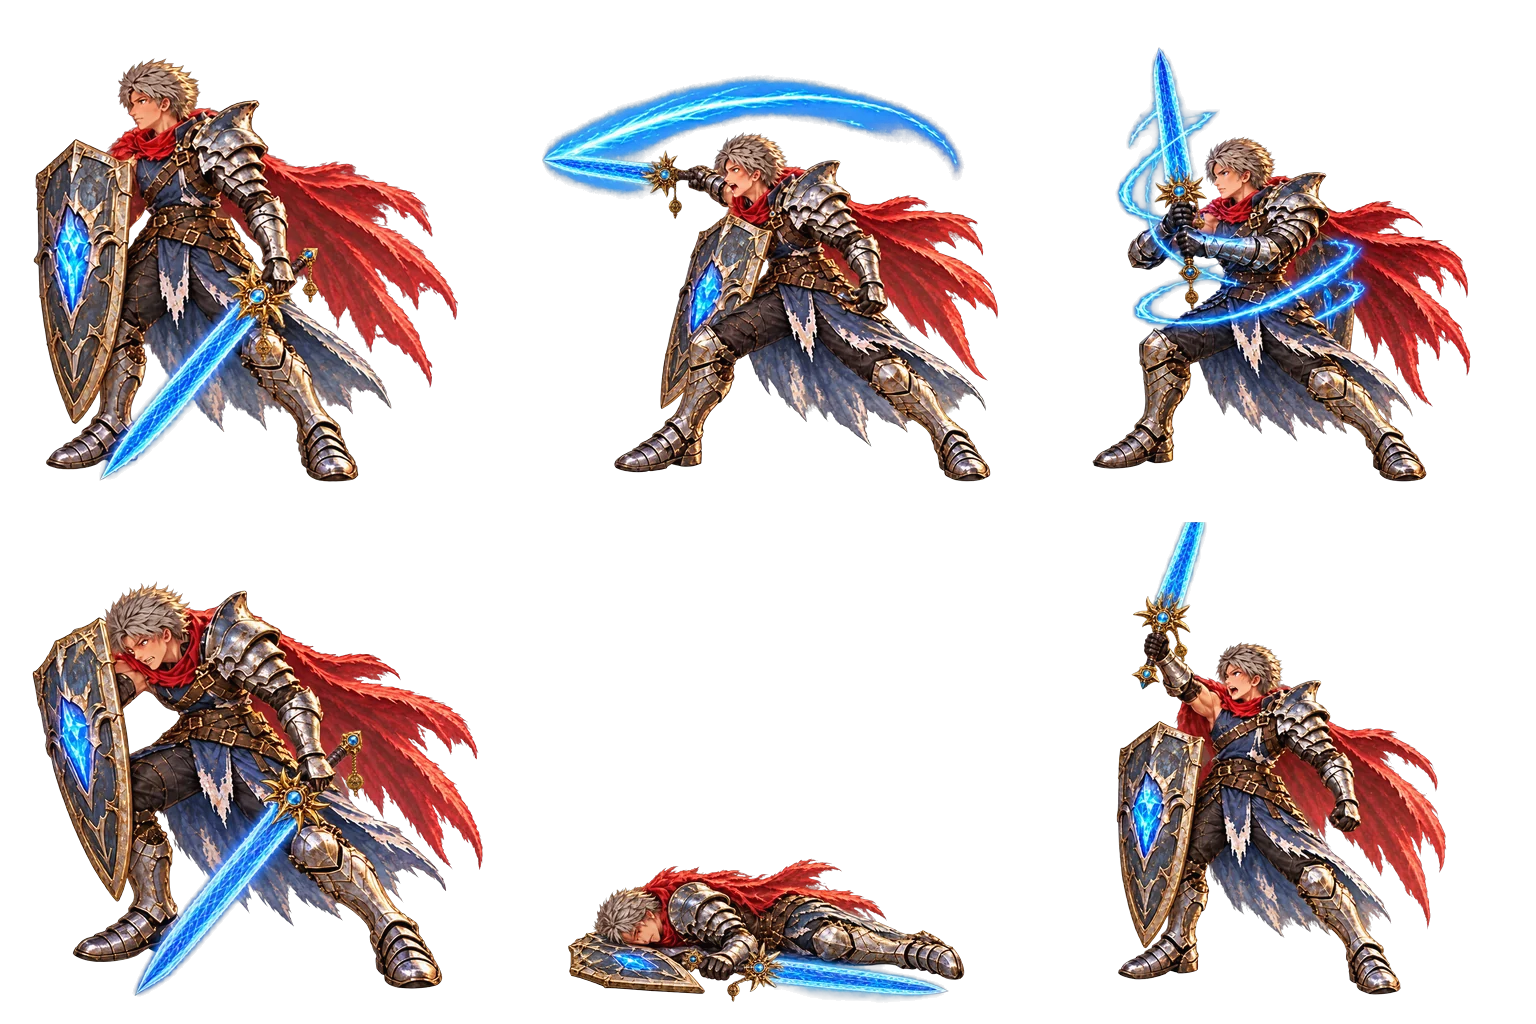
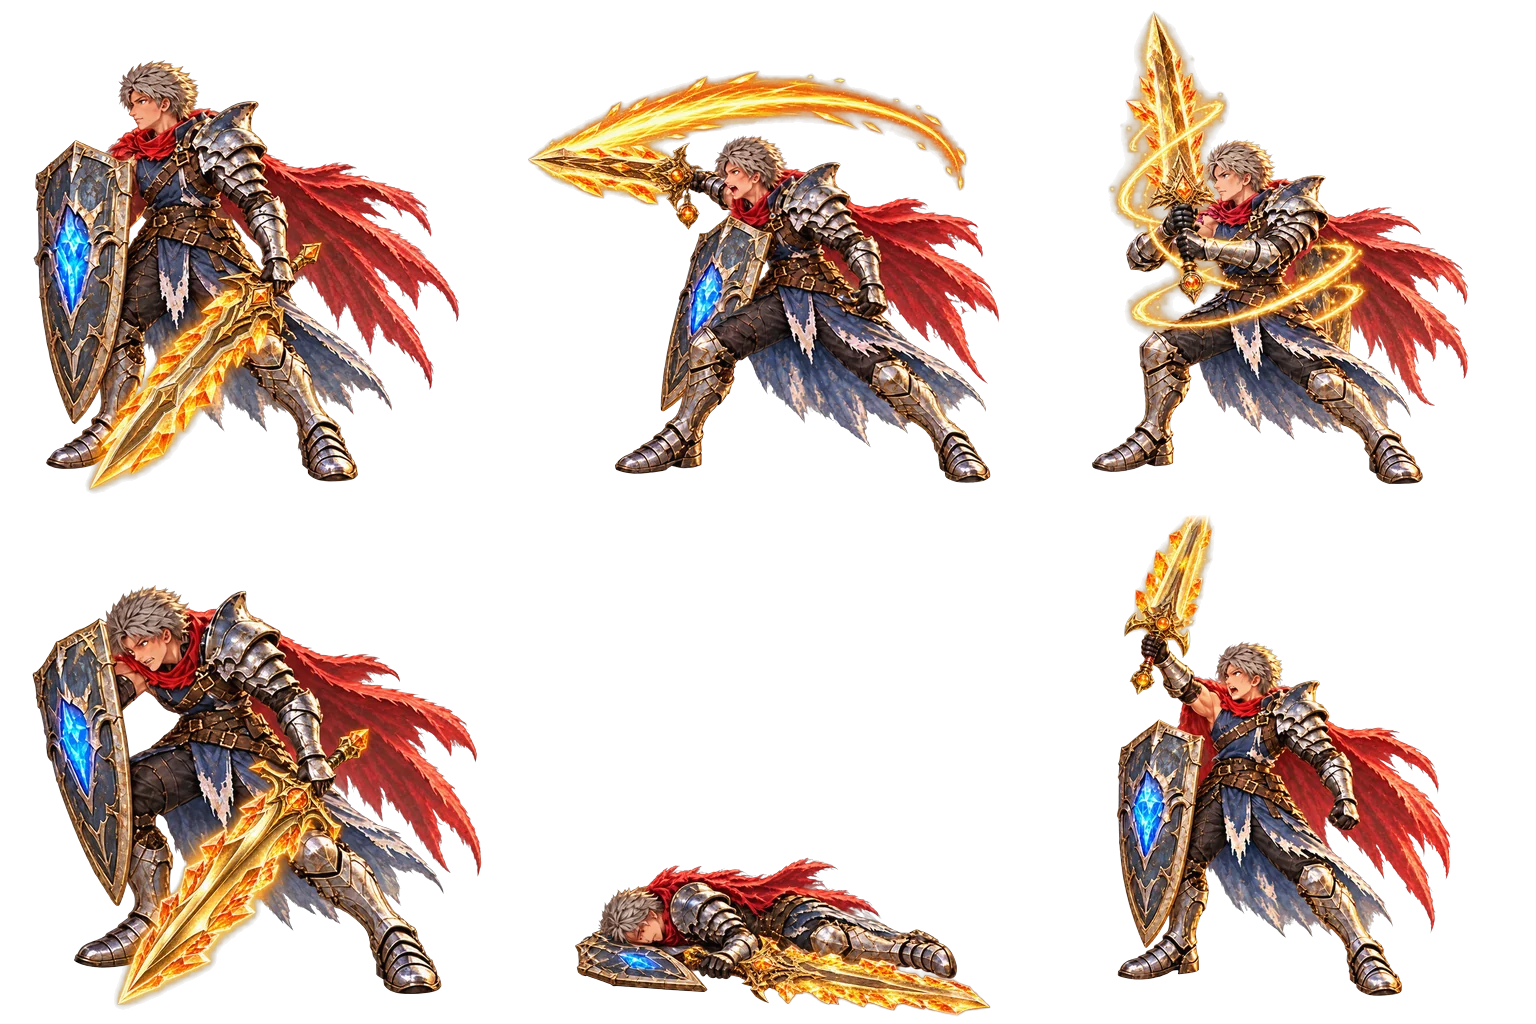
Art wave 12 Section C: Cade's forged sheets read at a glance
battle_1: a broad gold longsword with amber crystal shards and a warm glow, about
1.3x the old blade. battle_2: a huge teal-and-white sharkfin greatsword crackling
with white lightning, red streamer, about 1.6x. Painted with Codex one cell at a
time from battle.webp and fitted back onto the old cells; checked with red/cyan
overlays (tools/art/wave12-overlay.py). The 128 px idle strip is in
art/review/wave-12/knight_idle_strip.png.

The fit no longer snaps feet for these sheets: a big blade glowing below the
boots was read as feet and pulled the hero up. A raised blade that reaches the
cell edge now fades out over 12 px instead of being cut.

diff --git a/tools/art/wave12-c.py b/tools/art/wave12-c.py
@@ -1,0 +1,156 @@
+"""Wave 12 Section C: forged weapons that read at a glance.
+
+python tools/art/wave12-c.py gen <hero> <step> <cell> [attempt]
+python tools/art/wave12-c.py fit <hero> <step> <cell> <attempt>
+python tools/art/wave12-c.py assemble <hero> <step>
+python tools/art/wave12-c.py strip <hero>        128 px idle strip: as found, step 1, step 2
+
+Each cell is an edit of battle.webp (the weapon as found), one look per step:
+step 1 bright gold, about 1.3x; step 2 the hero's signature color, about 1.6x,
+strong glow and sparkles. Raw work goes to art/raw/wave-12/<hero>_c<step>/c<cell>/.
+The sheet replaces Section A's battle_<step>.webp; the manifest entry stays.
+"""
+import os
+import shutil
+import subprocess
+import sys
+from pathlib import Path
+
+from PIL import Image
+
+sys.path.insert(0, str(Path(__file__).parent))
+gen = __import__("wave12-gen")
+fit = __import__("wave12-fit")
+bare = __import__("wave12-bare")
+
+ROOT = Path(__file__).resolve().parents[2]
+A = ROOT / "public/assets"
+RAW = ROOT / "art/raw/wave-12"
+
+STEP = {
+    1: ("noticeably bigger, about 1.3 times the size of the weapon it replaces, with a clearly different shape",
+        "Bright gold metal with amber/orange crystal or flame accents, and a steady warm gold glow around the weapon."),
+    2: ("noticeably bigger, about 1.6 times the size of the weapon it replaces, the boldest shape",
+        "The hero's signature color, saturated, with white-hot edges; a strong glow plus a few sparkles or motes floating off it."),
+}
+SHAPE = {
+    ("knight", 1): "the Shard Sword: a broad gold longsword with amber crystal shards along the edge (no longer a thin blue blade)",
+    ("knight", 2): "the Sharkfin Blade: a huge curved teal-and-white sharkfin greatsword crackling with white lightning, with a red streamer",
+    ("gunner", 1): "the Brass-Fin Blasters: gold blasters with flared fins and glowing amber barrels (one in each hand)",
+    ("gunner", 2): "the Storm Blasters: long double-barreled blasters in electric blue with crackling white muzzles (one in each hand)",
+    ("spellwright", 1): "the Gold-Clasp Spellbook: a bigger gold-armored book, open, with a glowing amber sigil floating above it",
+    ("spellwright", 2): "the Book of Flying Pages: a large book in violet-and-white light, its glowing pages flying around him in a ring",
+    ("titancaller", 1): "the Coral Crown Staff: a gold staff topped with a big red-orange coral crown",
+    ("titancaller", 2): "the Living Tide Staff: a tall staff topped with a huge swirling sea-blue water orb, white foam spiralling around it",
+    ("beastkeeper", 1): "the Amber Crook: a gold shepherd's crook with a big glowing amber lantern hanging from the hook",
+    ("beastkeeper", 2): "the Greenwood Crook: a tall leafy shepherd's crook in bright green, with white flowers and a teal sea-dragon head at the hook",
+}
+EFFECT = {
+    "knight": "His slash arc or magic swirl, where there is one, keeps its shape and takes the new weapon's color.",
+    "gunner": "Muzzle flashes and swirls keep their shape and take the new blasters' color.",
+    "spellwright": "Any glow or orbiting runes around the book keep their shape and take the new book's color. His wand-torch stays exactly as it is.",
+    "titancaller": "Any water ribbons or glow coming off the staff keep their shape and take the new staff's colors.",
+    "beastkeeper": "Any lantern swirl or glow coming off the crook keeps its shape and takes the new crook's colors.",
+}
+
+
+def lead(step):
+    return gen.LEAD.replace("about the same size against the hero as the weapon it replaces", STEP[step][0])
+
+
+def raw(hero, step, c):
+    return RAW / f"{hero}_c{step}/c{c}"
+
+
+def do_gen(hero, step, c, attempt):
+    d = A / f"characters/ally_{hero}"
+    out = raw(hero, step, c) / f"a{attempt}"
+    if out.exists():
+        shutil.rmtree(out)
+    out.mkdir(parents=True)
+    old = Image.open(d / "battle.webp").convert("RGBA").crop(fit.cell_box("battle", c))
+    if os.environ.get("EDIT_FROM"):
+        # Start from another finished cell of the same frame (e.g. step 1's), when edits of the old cell keep moving the hero.
+        old = Image.open(os.environ["EDIT_FROM"]).convert("RGBA")
+    bare.to_square(old).save(out / "cell.png")
+    Image.open(d / "base.webp").save(out / "hero.png")
+    refs = ["cell.png", "hero.png"]
+    extra = ""
+    s1 = raw(hero, 1, c) / "final.png"
+    if step == 2 and s1.exists():
+        bare.to_square(Image.open(s1).convert("RGBA")).save(out / "step1.png")
+        refs.append("step1.png")
+        extra = ("Image 3 is the same frame with the previous, gold upgrade: use it only for where the hand grips the "
+                 "weapon. The new weapon is a different color and bigger than that one.\n\n")
+    note = os.environ.get("NOTE", "")
+    note = note + "\n\n" if note else ""
+    brief = f"""Generate 1 image with your image generation tool (edit mode, using the attached images as references) and save it as a PNG named `out.png` in the current folder. Actually generate and save the image; don't just describe it.
+
+{lead(step)}
+
+{STEP[step][1]}
+
+Image 1 (`cell.png`) is the picture to edit: one battle animation frame of a game sprite, 1024x1024 on a transparent background. Edit THIS picture. Keep the canvas 1024x1024 and keep the hero at exactly the same position, size and pose in the canvas, feet at the same height, so the edited frame lines up with the others. The bigger weapon must still fit entirely inside the canvas with a clear margin; nothing touches the edges.
+
+The weapon to remove is {gen.OLD_WEAPON[hero]}. Replace it with {SHAPE[(hero, step)]}. It must look obviously different from the old weapon at a glance, even when the sprite is tiny. Image 2 (`hero.png`) is the hero's character reference, so the hero stays on-model (ignore the weapon in it). {EFFECT[hero]}
+
+{extra}{note}{gen.SPRITE}
+
+{gen.RULES}
+
+Output: 1024x1024 PNG with a transparent background (alpha), no ground, no shadow. When done, reply with the filename you saved and one line describing it.
+"""
+    (out / "brief.md").write_text(brief, encoding="utf-8")
+    cmd = [gen.codex_exe(), "exec", "--skip-git-repo-check", "-s", "workspace-write", "-C", str(out), "-o", str(out / "reply.txt")]
+    for r in refs:
+        cmd += ["-i", str(out / r)]
+    cmd.append("-")
+    with open(out / "log.txt", "w", encoding="utf-8") as log:
+        r = subprocess.run(cmd, input=brief, text=True, encoding="utf-8", stdout=log, stderr=subprocess.STDOUT, timeout=1500)
+    print(out, "exit", r.returncode, "->", [p.name for p in out.glob("*.png") if p.name not in refs])
+
+
+def do_fit(hero, step, c, att):
+    old = Image.open(A / f"characters/ally_{hero}/battle.webp").convert("RGBA").crop(fit.cell_box("battle", c))
+    fit.fit_cell(old, raw(hero, step, c), att, ko=c == 4)
+
+
+def do_assemble(hero, step):
+    d = A / f"characters/ally_{hero}"
+    src = Image.open(d / "battle.webp").convert("RGBA")
+    out = Image.new("RGBA", src.size, (0, 0, 0, 0))
+    for c in range(6):
+        f = raw(hero, step, c) / "final.png"
+        if not f.exists():
+            sys.exit(f"missing {f}")
+        out.paste(Image.open(f).convert("RGBA"), fit.cell_box("battle", c)[:2])
+    rel = d / f"battle_{step}.webp"
+    out.save(rel, "WEBP", quality=86, method=6)
+    print(rel.name, rel.stat().st_size // 1024, "KB")
+
+
+def do_strip(hero):
+    d = A / f"characters/ally_{hero}"
+    cells = []
+    for name in ("battle.webp", "battle_1.webp", "battle_2.webp"):
+        cell = Image.open(d / name).convert("RGBA").crop((0, 0, 512, 512))
+        cells.append(cell.resize((128, 128), Image.LANCZOS))
+    strip = Image.new("RGBA", (3 * 128 + 2 * 16 + 32, 128 + 32), (72, 72, 78, 255))
+    for i, cell in enumerate(cells):
+        strip.alpha_composite(cell, (16 + i * 144, 16))
+    p = ROOT / f"art/review/wave-12/{hero}_idle_strip.png"
+    p.parent.mkdir(parents=True, exist_ok=True)
+    strip.save(p)
+    print(p)
+
+
+if __name__ == "__main__":
+    op, hero = sys.argv[1], sys.argv[2]
+    if op == "gen":
+        do_gen(hero, int(sys.argv[3]), int(sys.argv[4]), int(sys.argv[5]) if len(sys.argv) > 5 else 1)
+    elif op == "fit":
+        do_fit(hero, int(sys.argv[3]), int(sys.argv[4]), int(sys.argv[5]))
+    elif op == "assemble":
+        do_assemble(hero, int(sys.argv[3]))
+    else:
+        do_strip(hero)

diff --git a/tools/art/wave12-fit.py b/tools/art/wave12-fit.py
@@ -7,6 +7,7 @@ attempt (art/raw/wave-12/<hero>_<sheet>_<step>/c<cell>/final.png) plus a
 before/after compare.jpg. Prints the alignment and the feet check.
 """
 import json
+import os
 import sys
 from pathlib import Path
 
@@ -52,8 +53,49 @@ def score(old, new):
     return float(np.minimum(np.abs(oc - nc), 0.2).mean() + np.minimum(np.abs(oa - na), 0.2).mean())
 
 
-def feet(im):
+def edges(im):
+    """Gradient magnitude of the premultiplied brightness: the body's lines, which a new weapon covers only in part."""
+    c, a = premul(im)
+    l = c @ np.array([0.3, 0.59, 0.11], dtype=np.float32)
+    gx = np.zeros_like(l)
+    gy = np.zeros_like(l)
+    gx[:, 1:-1] = l[:, 2:] - l[:, :-2]
+    gy[1:-1] = l[2:] - l[:-2]
+    return np.hypot(gx, gy)
+
+
+def edge_score(old_e, new):
+    return float(np.minimum(np.abs(old_e - edges(new)), 0.15).mean())
+
+
+def glow_mask(im, hues):
+    """1 where a pixel is bright, saturated and inside one of the hue ranges (degrees): the weapon and its glow."""
+    a = np.asarray(im.convert("RGBA"), dtype=np.float32) / 255
+    hsv = np.asarray(im.convert("RGB").convert("HSV"), dtype=np.float32)
+    h, sat, val = hsv[..., 0] * 360 / 255, hsv[..., 1] / 255, hsv[..., 2] / 255
+    m = np.zeros(h.shape, bool)
+    for lo, hi in hues:
+        m |= (h >= lo) & (h <= hi)
+    m &= (sat > 0.45) & (val > 0.55) & (a[..., 3] > 0.05)
+    # Grow it a little so soft glow edges go too.
+    g = m.copy()
+    for d in (1, 2, 3, 4):
+        g[d:] |= m[:-d]; g[:-d] |= m[d:]; g[:, d:] |= m[:, :-d]; g[:, :-d] |= m[:, d:]
+    return Image.fromarray((g * 255).astype(np.uint8))
+
+
+def masked_score(old, keep_old, new, keep_new):
+    (oc, oa), (nc, na) = premul(old), premul(new)
+    keep = keep_old & keep_new
+    d = np.minimum(np.abs(oc - nc), 0.2).mean(-1) + np.minimum(np.abs(oa - na), 0.2)
+    return float(d[keep].mean()) if keep.any() else 1.0
+
+
+def feet(im, cols=None):
+    """Lowest row with some solid pixels (only in the given columns, if any)."""
     a = np.asarray(im)[..., 3]
+    if cols is not None:
+        a = a[:, cols]
     rows = np.where((a > 128).sum(1) > 3)[0]
     return int(rows.max()) if len(rows) else -1
 
@@ -62,52 +104,80 @@ def main():
     hero, sheet, step, c, att = sys.argv[1], sys.argv[2], int(sys.argv[3]), int(sys.argv[4]), int(sys.argv[5])
     base = RAW / f"{hero}_{sheet}_{step}/c{c}"
     old = Image.open(source_sheet(hero, sheet)).convert("RGBA").crop(cell_box(sheet, c))
+    fit_cell(old, base, att, ko=sheet == "battle" and c == 4)
+
+
+def fit_cell(old, base, att, ko=False):
+    """Fit base/a<att>/out.png onto the old cell; writes base/final.png, fit.json, compare.jpg."""
     w, h = old.size
     gen = Image.open(base / f"a{att}/out.png").convert("RGBA")
     if gen.size != (1024, 1024):
         gen = gen.resize((1024, 1024), Image.LANCZOS)
 
-    # Coarse then fine search over scale and shift.
+    # Coarse then fine search over scale and shift (WAVE12_EDGES=1 matches the body's lines instead of its colors).
+    hues = os.environ.get("WAVE12_MASK")
+    if hues:
+        # e.g. "170-260" or "20-60,170-260": weapon colors left out of the match.
+        hues = [tuple(map(float, r.split("-"))) for r in hues.split(",")]
+        keep_old = np.asarray(glow_mask(old, hues)) == 0
+        gm = Image.merge("RGBA", [glow_mask(gen, hues)] * 4)
+        def cost_at(s, dx, dy):
+            keep_new = np.asarray(place(gm, w, h, s, dx, dy))[..., 0] < 128
+            return masked_score(old, keep_old, place(gen, w, h, s, dx, dy), keep_new)
+    elif os.environ.get("WAVE12_EDGES"):
+        oe = edges(old)
+        cost = lambda im: edge_score(oe, im)
+    else:
+        cost = lambda im: score(old, im)
     best = (1e9, 1.0, 0, 0)
-    for s in np.arange(0.90, 1.101, 0.02):
-        for dx in range(-28, 29, 4):
-            for dy in range(-28, 29, 4):
-                v = score(old, place(gen, w, h, s, dx, dy))
+    for s in np.arange(0.86, 1.141, 0.02):
+        for dx in range(-40, 41, 4):
+            for dy in range(-40, 41, 4):
+                v = cost_at(s, dx, dy) if hues else cost(place(gen, w, h, s, dx, dy))
                 best = min(best, (v, s, dx, dy))
     for _ in range(2):
         _, s0, x0, y0 = best
         for s in np.arange(s0 - 0.015, s0 + 0.016, 0.005):
             for dx in range(x0 - 3, x0 + 4):
                 for dy in range(y0 - 3, y0 + 4):
-                    v = score(old, place(gen, w, h, s, dx, dy))
+                    v = cost_at(s, dx, dy) if hues else cost(place(gen, w, h, s, dx, dy))
                     best = min(best, (v, s, dx, dy))
     v, s, dx, dy = best
     # Feet within 2 px of the old cell (the KO frame lies down, so it is left as fitted).
-    if not (sheet == "battle" and c == 4):
-        fo = feet(old)
-        fd = feet(place(gen, w, h, s, dx, dy)) - fo
-        if abs(fd) > 1:
+    # Measured only in the old feet's columns, so a weapon that dips below the boots doesn't count.
+    fo = feet(old)
+    oa = np.asarray(old)[..., 3]
+    cols = np.where((oa[max(fo - 20, 0):fo + 1] > 128).any(0))[0]
+    if not ko and not os.environ.get("WAVE12_NOSNAP"):
+        # Off for Section C: a big weapon glowing below the boots reads as feet and drags the hero up.
+        fd = feet(place(gen, w, h, s, dx, dy), cols) - fo
+        if 1 < abs(fd) <= 40:
             dy -= fd
     new = place(gen, w, h, s, dx, dy)
 
     # Clear faint haze and keep a transparent 2 px ring at the cell edge.
     arr = np.asarray(new).copy()
     arr[arr[..., 3] < 10] = 0
-    arr[:2], arr[-2:], arr[:, :2], arr[:, -2:] = 0, 0, 0, 0
+    # What reaches the cell edge (a raised blade's tip) fades out over the last 12 px instead of being cut.
+    edge = arr[..., 3]
+    touch = int(max(edge[2].max(), edge[-3].max(), edge[:, 2].max(), edge[:, -3].max()))
+    yy, xx = np.mgrid[0:h, 0:w]
+    dist = np.minimum.reduce([yy, h - 1 - yy, xx, w - 1 - xx]).astype(np.float32)
+    ramp = np.clip((dist - 2) / 12, 0, 1)
+    arr[..., 3] = (arr[..., 3] * ramp).astype(np.uint8)
+    arr[arr[..., 3] == 0] = 0
     new = Image.fromarray(arr)
     new.save(base / "final.png")
-
-    edge = np.asarray(new)[..., 3]
-    touch = int(max(edge[2].max(), edge[-3].max(), edge[:, 2].max(), edge[:, -3].max()))
     report = {"attempt": att, "scale": round(float(s), 3), "dx": int(dx), "dy": int(dy), "score": round(v, 4),
-              "feet_old": feet(old), "feet_new": feet(new), "edge_alpha": touch}
-    report["feet_ok"] = abs(report["feet_old"] - report["feet_new"]) <= 2 or c == 4 and sheet == "battle"
+              "feet_old": fo, "feet_new": feet(new, cols), "edge_alpha": touch}
+    report["feet_ok"] = abs(report["feet_old"] - report["feet_new"]) <= 2 or ko
     (base / "fit.json").write_text(json.dumps(report))
     cmp = Image.new("RGBA", (w * 2 + 8, h), (60, 60, 60, 255))
     cmp.alpha_composite(old, (0, 0))
     cmp.alpha_composite(new, (w + 8, 0))
     cmp.convert("RGB").save(base / "compare.jpg", quality=88)
     print(json.dumps(report))
+    return report
 
 
 if __name__ == "__main__":

diff --git a/tools/art/wave12-overlay.py b/tools/art/wave12-overlay.py
@@ -1,0 +1,22 @@
+"""Wave 12: red (old) / cyan (new) overlays of a hero's sheet, to check the body lines up.
+
+python tools/art/wave12-overlay.py <hero> <new sheet file> <out.png>
+"""
+import sys
+from pathlib import Path
+
+import numpy as np
+from PIL import Image
+
+ROOT = Path(__file__).resolve().parents[2]
+hero, new, out = sys.argv[1:4]
+d = ROOT / f"public/assets/characters/ally_{hero}"
+def lum(path):
+    """Brightness of what shows (premultiplied, so color hidden in transparent pixels stays black)."""
+    x = np.asarray(Image.open(path).convert("RGBA"), dtype=np.float32) / 255
+    return (x[..., :3] @ np.array([0.3, 0.59, 0.11]) * x[..., 3] * 255).astype(np.uint8)
+
+
+a = lum(d / "battle.webp")
+b = lum(new)
+Image.fromarray(np.stack([a, b, b], -1)).resize((1152, 768)).save(out)

diff --git a/art/waves/wave-12-forged-weapons.md b/art/waves/wave-12-forged-weapons.md
@@ -128,7 +128,7 @@ The parent's review of Section A (17 October): "At a glance they all look the sa
 
 | ☐ | Hero | `battle_1` | `battle_2` | icons |
 |---|---|---|---|---|
-| ☐ | Cade | ☐ | ☐ | ☐ |
+| ☐ | Cade | ☑ | ☑ | ☐ |
 | ☐ | Wren | ☐ | ☐ | ☐ |
 | ☐ | Knox | ☐ | ☐ | ☐ |
 | ☐ | Maren | ☐ | ☐ | ☐ |
